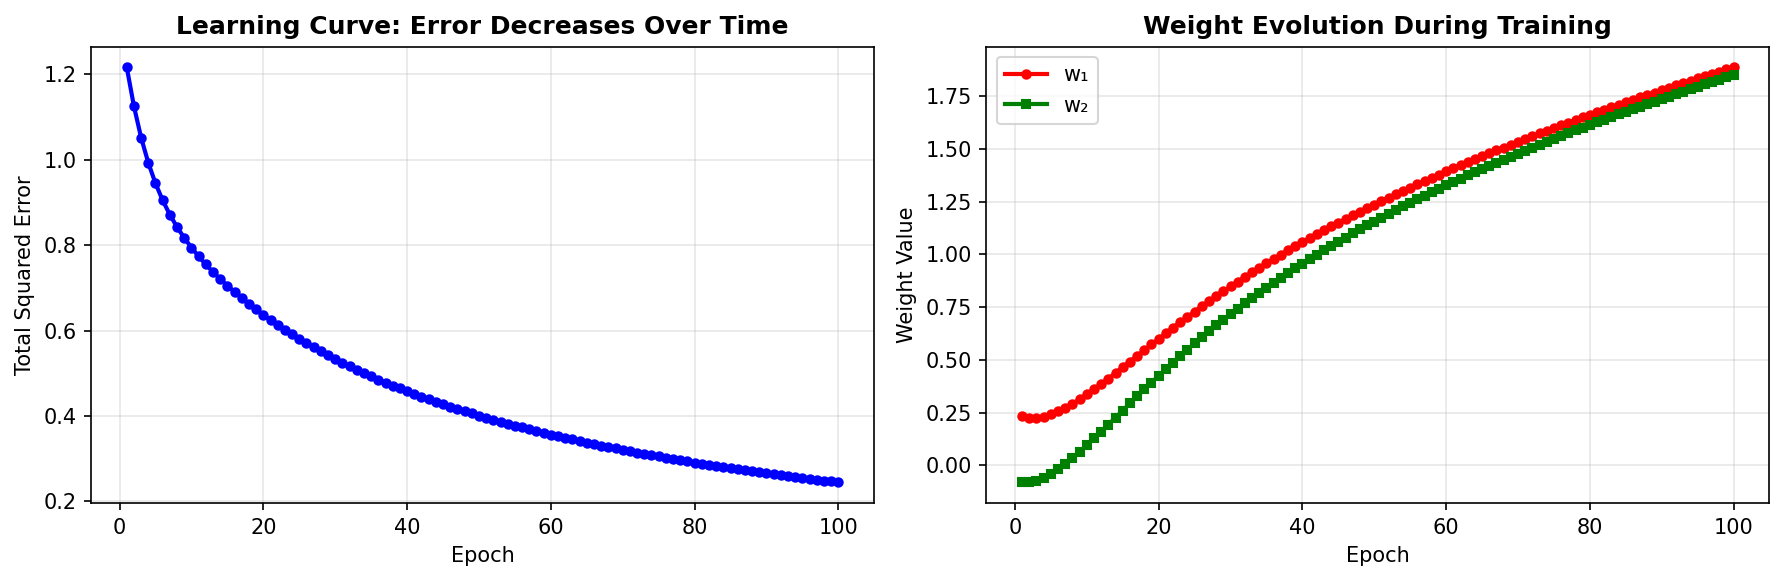
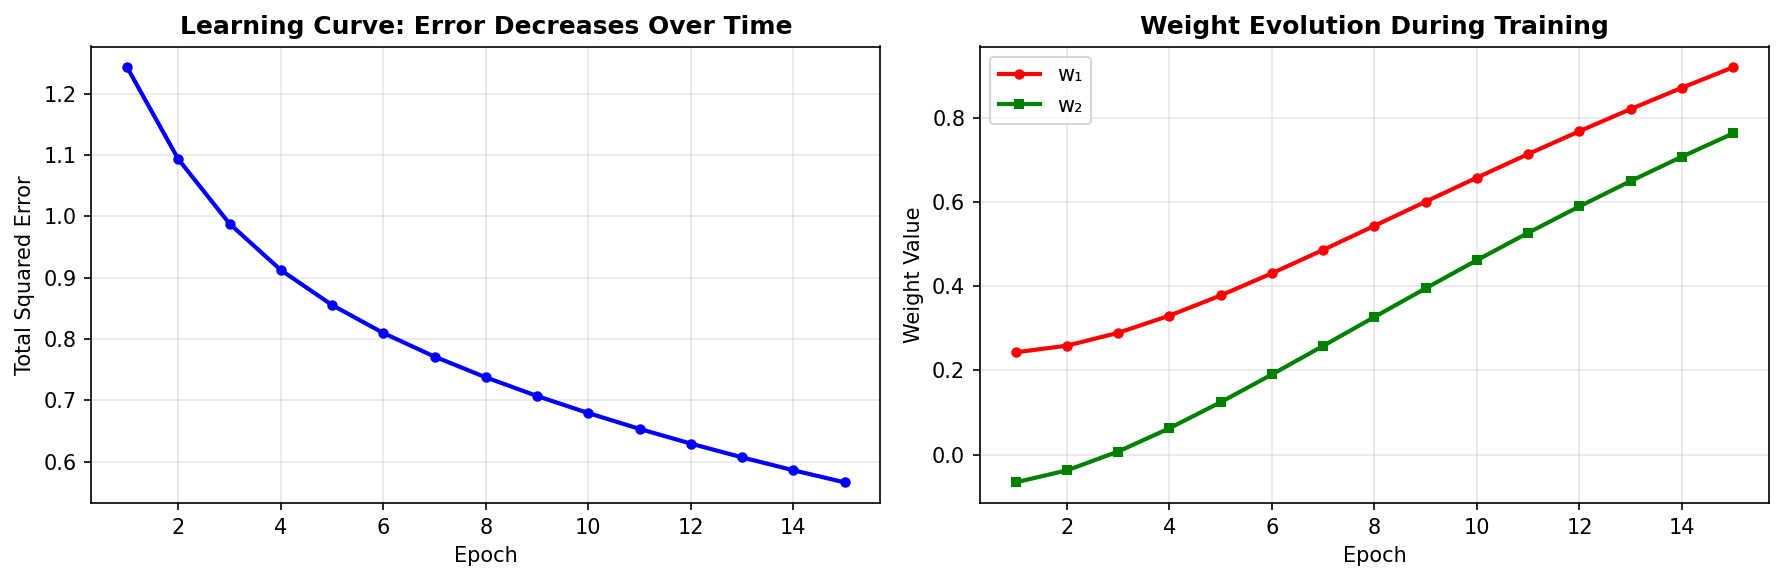
Live: CNNs - preparing & guide

diff --git a/37-38_CNN_and_TransferLearning/0_heartbeat_script_predict_real_numbers.py b/37-38_CNN_and_TransferLearning/0_heartbeat_script_predict_real_numbers.py
@@ -1,0 +1,185 @@
+import tensorflow as tf
+import numpy as np
+import cv2  # OpenCV for camera
+import tkinter as tk  # GUI for drawing
+from PIL import Image, ImageDraw, ImageOps  # Image processing for drawing
+from tensorflow.keras.datasets import mnist
+from tensorflow.keras.models import Sequential
+from tensorflow.keras.layers import Conv2D, MaxPooling2D, Flatten, Dense
+
+# ==========================================
+# PART 1: Train the Model (Your Code)
+# ==========================================
+print("Loading data and training model...")
+
+(X_train, y_train), (X_test, y_test) = mnist.load_data()
+X_train = X_train.reshape(-1, 28, 28, 1) / 255.0
+X_test = X_test.reshape(-1, 28, 28, 1) / 255.0
+
+model = Sequential([
+    Conv2D(32, (3, 3), activation='relu', input_shape=(28, 28, 1)),
+    MaxPooling2D((2, 2)),
+    Conv2D(64, (3, 3), activation='relu'),
+    MaxPooling2D((2, 2)),
+    Flatten(),
+    Dense(64, activation='relu'),
+    Dense(10, activation='softmax')
+])
+
+model.compile(optimizer='adam', loss='sparse_categorical_crossentropy', metrics=['accuracy'])
+model.fit(X_train, y_train, epochs=3, validation_data=(X_test, y_test), verbose=1)
+
+loss, acc = model.evaluate(X_test, y_test)
+print(f"Model Accuracy: {acc * 100:.2f}%")
+print("-" * 50)
+
+
+# ==========================================
+# Helper Function: Preprocess Image
+# ==========================================
+def preprocess_image(img_array):
+    # Resize to 28x28
+    img_resized = cv2.resize(img_array, (28, 28))
+    # Reshape to (1, 28, 28, 1) and normalize
+    img_final = img_resized.reshape(1, 28, 28, 1) / 255.0
+    return img_final
+
+
+# ==========================================
+# PART 2: Option 1 - Webcam Screenshot
+# ==========================================
+def start_webcam():
+    cap = cv2.VideoCapture(0)
+    print("WEBCAM INSTRUCTIONS:")
+    print("1. Align the number inside the Green Box.")
+    print("2. Ensure good lighting and write with a THICK marker.")
+    print("3. Press 's' to Scan/Predict.")
+    print("4. Press 'q' to Quit.")
+
+    while True:
+        ret, frame = cap.read()
+        if not ret:
+            break
+
+        # Define a Region of Interest (ROI) box
+        height, width, _ = frame.shape
+        # Box coordinates (center of screen)
+        x1, y1 = int(width / 2 - 100), int(height / 2 - 100)
+        x2, y2 = int(width / 2 + 100), int(height / 2 + 100)
+
+        # Draw the box on the frame
+        cv2.rectangle(frame, (x1, y1), (x2, y2), (0, 255, 0), 2)
+        cv2.putText(frame, "Place Number Here", (x1, y1 - 10), cv2.FONT_HERSHEY_SIMPLEX, 0.7, (0, 255, 0), 2)
+
+        cv2.imshow('Webcam Digit Recognizer', frame)
+
+        key = cv2.waitKey(1) & 0xFF
+
+        if key == ord('s'):
+            # 1. Crop the ROI
+            roi = frame[y1:y2, x1:x2]
+
+            # 2. Convert to grayscale
+            gray = cv2.cvtColor(roi, cv2.COLOR_BGR2GRAY)
+
+            # 3. Thresholding (Binarize) and Invert
+            # We use thresholding to make the background pure black and text pure white
+            # cv2.THRESH_BINARY_INV turns white paper black, and black ink white (like MNIST)
+            _, thresh = cv2.threshold(gray, 120, 255, cv2.THRESH_BINARY_INV)
+
+            # Show what the computer sees (for debugging)
+            cv2.imshow("Processed Input", cv2.resize(thresh, (200, 200)))
+
+            # 4. Predict
+            processed = preprocess_image(thresh)
+            prediction = model.predict(processed)
+            digit = np.argmax(prediction)
+            confidence = np.max(prediction)
+
+            print(f"PREDICTION: {digit} (Confidence: {confidence * 100:.2f}%)")
+
+        elif key == ord('q'):
+            break
+
+    cap.release()
+    cv2.destroyAllWindows()
+
+
+# ==========================================
+# PART 3: Option 2 - Canvas Drawing
+# ==========================================
+def start_drawing_pad():
+    window = tk.Tk()
+    window.title("Draw a Digit")
+
+    # We draw on two things:
+    # 1. The visible Canvas (for user)
+    # 2. A PIL Image object (in memory, for the AI)
+    canvas_width, canvas_height = 300, 300
+    canvas = tk.Canvas(window, width=canvas_width, height=canvas_height, bg='black')
+    canvas.pack()
+
+    # Create a black image (MNIST style)
+    image1 = Image.new("L", (canvas_width, canvas_height), 0)
+    draw = ImageDraw.Draw(image1)
+
+    label_result = tk.Label(window, text="Draw a digit and click Predict", font=("Helvetica", 14))
+    label_result.pack()
+
+    def paint(event):
+        # Brush size
+        r = 12
+        x1, y1 = (event.x - r), (event.y - r)
+        x2, y2 = (event.x + r), (event.y + r)
+        # Draw on screen (white on black)
+        canvas.create_oval(x1, y1, x2, y2, fill="white", outline="white")
+        # Draw on memory image
+        draw.ellipse([x1, y1, x2, y2], fill=255, outline=255)
+
+    def clear():
+        canvas.delete("all")
+        draw.rectangle([0, 0, 300, 300], fill=0)
+        label_result.config(text="Draw a digit...")
+
+    def predict():
+        # Resize the PIL image to 28x28
+        img_resized = image1.resize((28, 28))
+        # Convert to numpy array
+        img_array = np.array(img_resized)
+
+        # Predict
+        processed = img_array.reshape(1, 28, 28, 1) / 255.0
+        prediction = model.predict(processed)
+        digit = np.argmax(prediction)
+        conf = np.max(prediction)
+
+        label_result.config(text=f"Prediction: {digit} ({conf * 100:.1f}%)")
+
+    canvas.bind("<B1-Motion>", paint)  # Bind mouse drag
+
+    btn_frame = tk.Frame(window)
+    btn_frame.pack()
+    tk.Button(btn_frame, text="Predict", command=predict).pack(side=tk.LEFT)
+    tk.Button(btn_frame, text="Clear", command=clear).pack(side=tk.LEFT)
+
+    window.mainloop()
+
+
+# ==========================================
+# Main Menu
+# ==========================================
+while True:
+    print("\nSelect Mode:")
+    print("1. Webcam Scanner (Hold paper)")
+    print("2. Drawing Pad (Use cursor)")
+    print("3. Exit")
+    choice = input("Enter choice (1/2/3): ")
+
+    if choice == '1':
+        start_webcam()
+    elif choice == '2':
+        start_drawing_pad()
+    elif choice == '3':
+        break
+    else:
+        print("Invalid choice")

diff --git a/37-38_CNN_and_TransferLearning/0_heartbeat_script.py b/37-38_CNN_and_TransferLearning/0_heartbeat_script.py
@@ -1,0 +1,35 @@
+import tensorflow as tf
+from tensorflow.keras.datasets import mnist
+
+(X_train, y_train), (X_test, y_test) = mnist.load_data()
+X_train = X_train.reshape(-1, 28, 28, 1) / 255.0
+X_test = X_test.reshape(-1, 28, 28, 1) / 255.0
+
+
+
+from tensorflow.keras.models import Sequential
+from tensorflow.keras.layers import Conv2D, MaxPooling2D, Flatten, Dense
+
+model = Sequential([
+    Conv2D(32, (3,3), activation='relu', input_shape=(28,28,1)),
+    MaxPooling2D((2,2)),
+    Conv2D(64, (3,3), activation='relu'),
+    MaxPooling2D((2,2)),
+    Flatten(),
+    Dense(64, activation='relu'),
+    Dense(10, activation='softmax')
+])
+
+
+
+model.compile(optimizer='adam',
+              loss='sparse_categorical_crossentropy',
+              metrics=['accuracy'])
+
+
+
+
+model.fit(X_train, y_train, epochs=10, validation_data=(X_test, y_test))
+
+loss, acc = model.evaluate(X_test, y_test)
+print("Acuratețe:", acc)

diff --git a/36_Deep_Learning/3_first_tensorflow.py b/36_Deep_Learning/3_first_tensorflow.py
@@ -11,7 +11,8 @@ PREREQUISITES:
     - Completed Backpropagation lesson (understand gradients, chain rule)
 
 THE BIG QUESTION:
-    We built backprop by hand. Why do we need TensorFlow?
+    We built backprop by hand.
+    Why do we need TensorFlow?
 
 ANSWER:
     1. AUTOMATIC DIFFERENTIATION - No manual gradient math
@@ -131,7 +132,7 @@ def xor_numpy_vs_tensorflow():
 
     history = model.fit(
         X, y,
-        epochs=1000,
+        epochs=5000,
         verbose=0  # Silent training
     )
 

diff --git a/36_Deep_Learning/2_backpropagation.py b/36_Deep_Learning/2_backpropagation.py
@@ -154,6 +154,7 @@ def visualize_xor_solution():
 
 # =============================================================================
 # PART 2: NETWORK ARCHITECTURE
+# Dense Network
 # =============================================================================
 
 """

diff --git a/36_Deep_Learning/1_the_neuron.py b/36_Deep_Learning/1_the_neuron.py
@@ -450,7 +450,7 @@ def train_neuron_step_by_step():
 
     # Training parameters
     learning_rate = 0.5
-    epochs = 100 # 20 before, failed to grasp 1-1
+    epochs = 15 # 20 before, failed to grasp 1-1
 
     # Track history for plotting
     error_history = []
